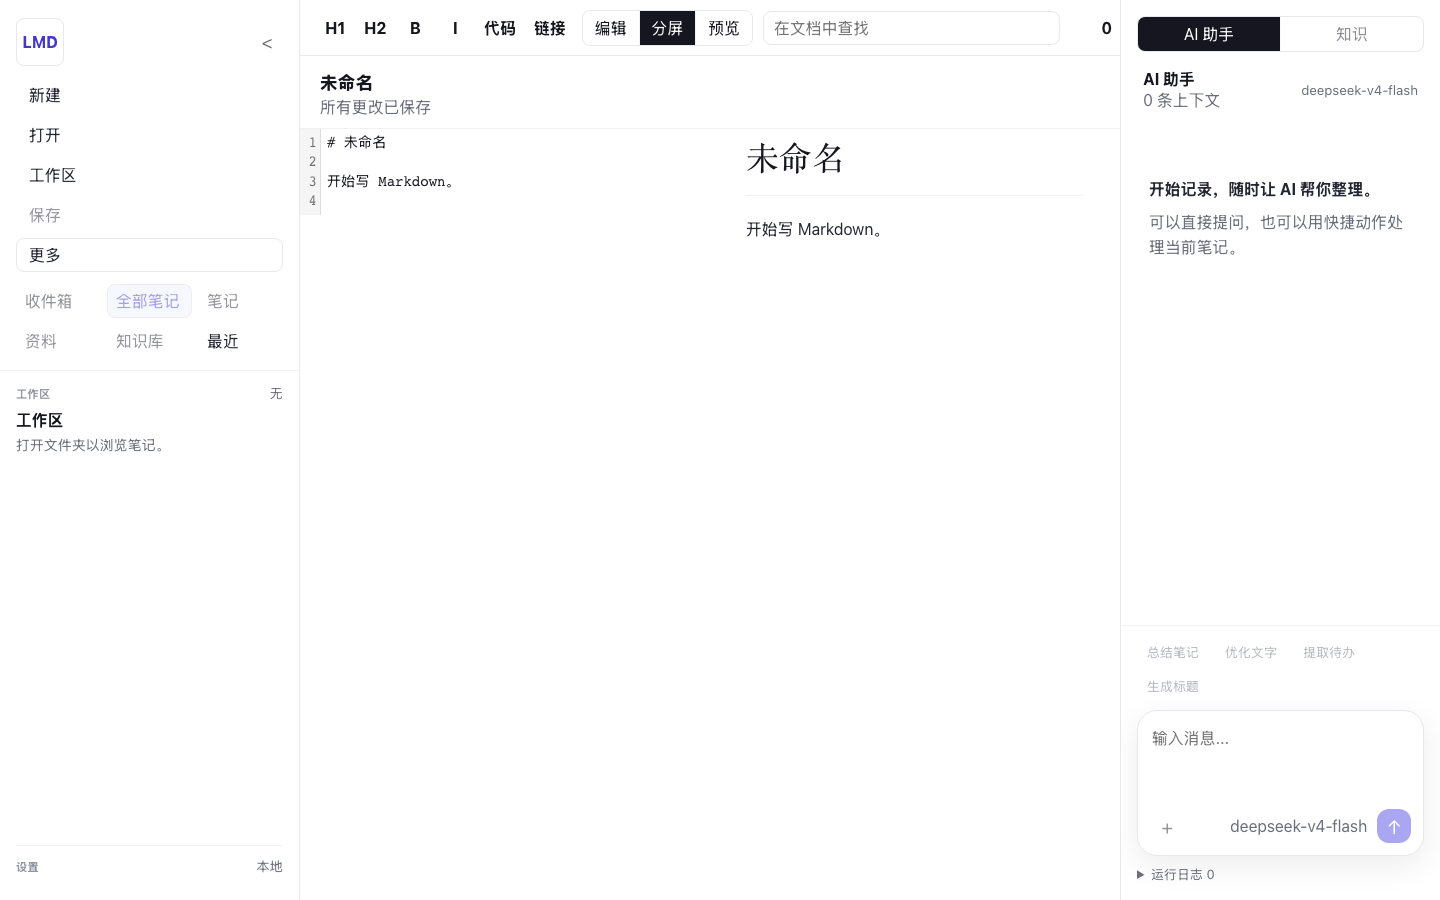
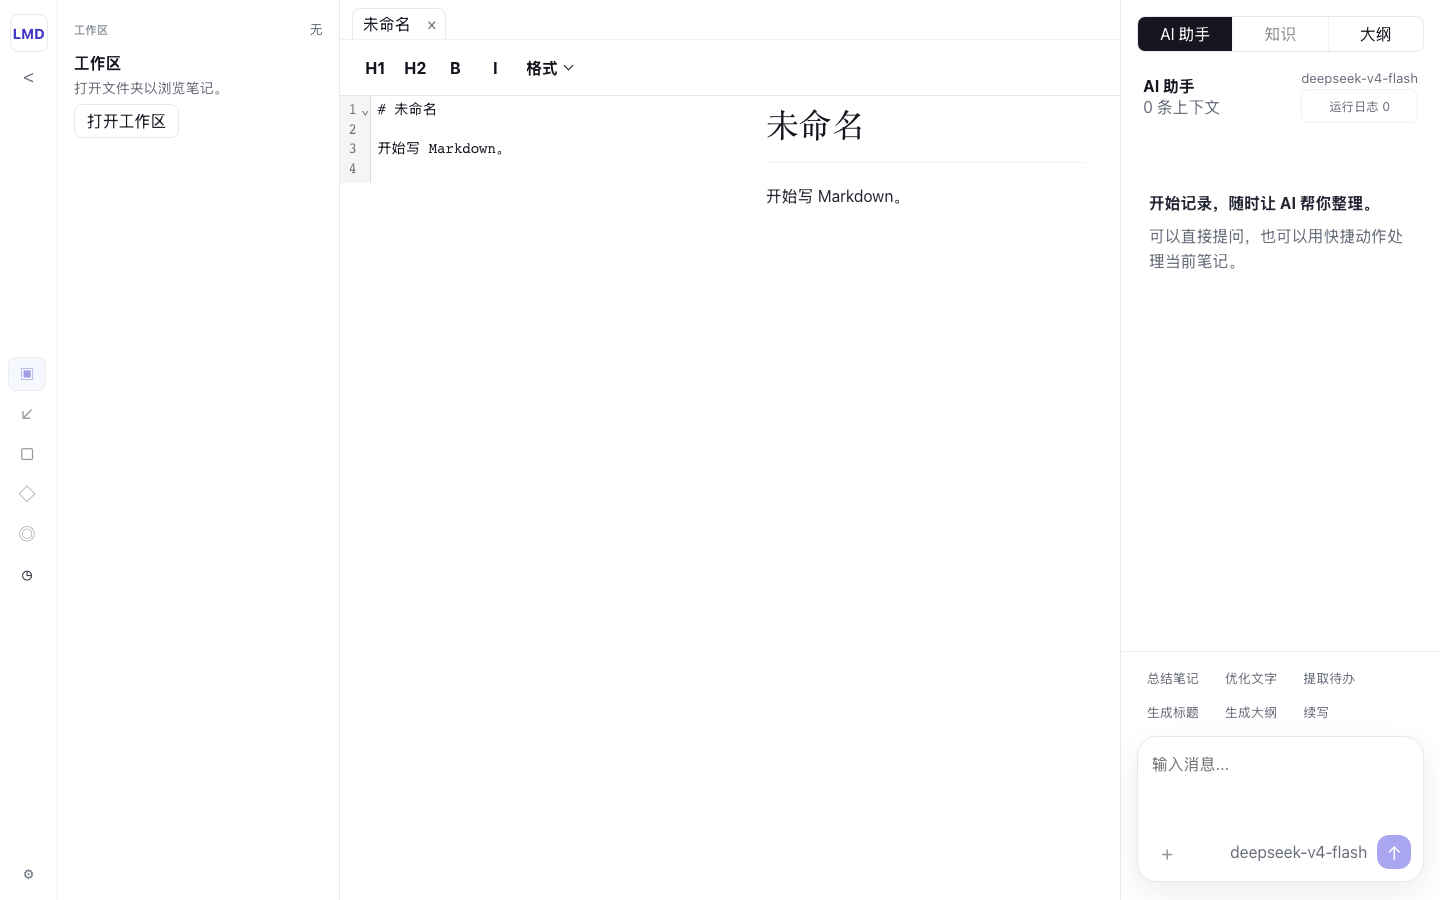
update

diff --git a/src/components/WorkspaceListPanel.tsx b/src/components/WorkspaceListPanel.tsx
@@ -21,6 +21,7 @@ type WorkspaceListPanelProps = {
   isLarge: boolean;
   visibleStartLine: number;
   visibleEndLine: number;
+  onCollapsePanel: () => void;
   onWorkspaceQueryChange: (query: string) => void;
   onWorkspaceSearch: () => void;
   onOpenWorkspace: () => void;
@@ -180,6 +181,7 @@ export function WorkspaceListPanel({
   isLarge,
   visibleStartLine,
   visibleEndLine,
+  onCollapsePanel,
   onWorkspaceQueryChange,
   onWorkspaceSearch,
   onOpenWorkspace,
@@ -330,13 +332,24 @@ export function WorkspaceListPanel({
       <div className="workspace-panel">
         <div className="workspace-header resource-tree-header">
           <span className="label">{sectionLabel}</span>
-          <small>
-            {librarySection === "recent"
-              ? `${recentFiles.length.toLocaleString()} 个文件`
-              : workspace
-                ? `${workspaceFiles.length.toLocaleString()} 个文件`
-                : "无"}
-          </small>
+          <div className="resource-tree-header-actions">
+            <small>
+              {librarySection === "recent"
+                ? `${recentFiles.length.toLocaleString()} 个文件`
+                : workspace
+                  ? `${workspaceFiles.length.toLocaleString()} 个文件`
+                  : "无"}
+            </small>
+            <button
+              type="button"
+              className="panel-toggle workspace-panel-toggle"
+              onClick={onCollapsePanel}
+              aria-label="隐藏笔记栏"
+              title="隐藏笔记栏"
+            >
+              ◧
+            </button>
+          </div>
         </div>
 
         {librarySection === "recent" ? (

diff --git a/src/components/LibraryRail.tsx b/src/components/LibraryRail.tsx
@@ -3,9 +3,7 @@ import type { LibrarySection, Workspace } from "../types";
 type LibraryRailProps = {
   busy: boolean;
   workspace: Workspace | null;
-  leftPanelOpen: boolean;
   activeSection: LibrarySection;
-  onToggleLeftPanel: () => void;
   onSectionChange: (section: LibrarySection) => void;
   onOpenSettings: () => void;
 };
@@ -22,9 +20,7 @@ const libraryItems: Array<{ id: LibrarySection; label: string; icon: string; req
 export function LibraryRail({
   busy,
   workspace,
-  leftPanelOpen,
   activeSection,
-  onToggleLeftPanel,
   onSectionChange,
   onOpenSettings,
 }: LibraryRailProps) {
@@ -32,15 +28,6 @@ export function LibraryRail({
     <aside className="library-rail" aria-label="资料库">
       <div className="app-brand">
         <div className="app-mark">LMD</div>
-        <button
-          type="button"
-          className="panel-toggle"
-          onClick={onToggleLeftPanel}
-          aria-label={leftPanelOpen ? "隐藏笔记栏" : "显示笔记栏"}
-          title={leftPanelOpen ? "隐藏笔记栏" : "显示笔记栏"}
-        >
-          {leftPanelOpen ? "<" : ">"}
-        </button>
       </div>
 
       <nav className="library-nav" aria-label="资料库分区">

diff --git a/src/styles.css b/src/styles.css
@@ -115,16 +115,20 @@ button:disabled {
 
 .floating-panel-toggle {
   position: fixed;
-  left: 12px;
-  top: 12px;
+  left: 0;
+  top: 50%;
   z-index: 6;
   display: none;
-  width: 34px;
+  width: 28px;
+  height: 56px;
   padding: 0;
-  border-color: rgba(204, 120, 92, 0.28);
+  border-color: var(--line);
+  border-left: 0;
+  border-radius: 0 10px 10px 0;
   background: var(--panel);
-  color: var(--accent-strong);
+  color: var(--muted);
   box-shadow: var(--shadow);
+  transform: translateY(-50%);
 }
 
 .left-closed .floating-panel-toggle {
@@ -189,6 +193,12 @@ button:disabled {
 
 .panel-toggle:hover:not(:disabled) {
   color: var(--accent-strong);
+}
+
+.workspace-panel-toggle {
+  border-color: var(--line);
+  background: var(--panel-muted);
+  font-size: 1rem;
 }
 
 .library-nav,
@@ -307,6 +317,12 @@ button:disabled {
 
 .resource-tree-header {
   min-height: 30px;
+}
+
+.resource-tree-header-actions {
+  display: flex;
+  align-items: center;
+  gap: 8px;
 }
 
 .workspace-header {

diff --git a/src/App.tsx b/src/App.tsx
@@ -3718,9 +3718,7 @@ export default function App() {
         <LibraryRail
           busy={busy}
           workspace={workspace}
-          leftPanelOpen={leftPanelOpen}
           activeSection={librarySection}
-          onToggleLeftPanel={() => setLeftPanelOpen((open) => !open)}
           onSectionChange={(section) => {
             setLibrarySection(section);
             setWorkspaceSearchActive(false);
@@ -3742,6 +3740,7 @@ export default function App() {
           isLarge={isLarge}
           visibleStartLine={visibleStartLine}
           visibleEndLine={visibleEndLine}
+          onCollapsePanel={() => setLeftPanelOpen(false)}
           onWorkspaceQueryChange={(query) => {
             setWorkspaceQuery(query);
             setWorkspaceSearchActive(false);

diff --git a/src-tauri/src/lib.rs b/src-tauri/src/lib.rs
@@ -76,6 +76,19 @@ fn checked_app_menu_item(
     )
 }
 
+#[cfg(target_os = "macos")]
+fn lmd_about_metadata(app: &tauri::AppHandle) -> tauri::Result<tauri::menu::AboutMetadata<'static>> {
+    let package_info = app.package_info();
+    Ok(tauri::menu::AboutMetadata {
+        name: Some(package_info.name.clone()),
+        version: Some(package_info.version.to_string()),
+        short_version: Some(package_info.version.to_string()),
+        copyright: app.config().bundle.copyright.clone(),
+        icon: Some(tauri::image::Image::from_bytes(APP_ICON_PNG)?),
+        ..Default::default()
+    })
+}
+
 fn build_app_menu(app: &tauri::AppHandle) -> tauri::Result<Menu<tauri::Wry>> {
     let menu = Menu::default(app)?;
     let knowledge_menu = Submenu::with_items(
@@ -193,6 +206,16 @@ fn build_app_menu(app: &tauri::AppHandle) -> tauri::Result<Menu<tauri::Wry>> {
     menu.insert(&ai_menu, 6)?;
     for item in menu.items()? {
         if let MenuItemKind::Submenu(submenu) = item {
+            #[cfg(target_os = "macos")]
+            if submenu.text()? == app.package_info().name {
+                let _ = submenu.remove_at(0)?;
+                submenu.insert(
+                    &PredefinedMenuItem::about(app, None, Some(lmd_about_metadata(app)?))?,
+                    0,
+                )?;
+                continue;
+            }
+
             if submenu.text()? == "File" {
                 submenu.prepend_items(&[
                     &app_menu_item(app, "new-markdown", "新建 Markdown", Some("CmdOrCtrl+N"))?,

diff --git a/README.md b/README.md
@@ -72,7 +72,7 @@ The checked state in the `View` menu is synchronized from the actual app state.
 
 ### Workspace and Knowledge
 
-Open a folder as a workspace, then use `More -> 初始化知识库` in the left rail. LMD creates:
+Open a folder as a workspace, then use `Knowledge -> 初始化知识库` from the macOS menu or the command palette. LMD creates:
 
 ```text
 notes/
@@ -288,7 +288,7 @@ More detail:
 - DOCX export requires `pandoc`.
 - Release builds are not signed or notarized yet.
 - Native Tauri WebDriver coverage would need Linux or Windows CI.
-- The current screenshot may be refreshed as the native macOS menu-first UI continues to evolve.
+- The UI is evolving quickly; screenshots should be refreshed when menu, workspace, or assistant layouts change.
 
 ## Status
 
@@ -297,7 +297,7 @@ LMD is usable, testable, and buildable, but still early.
 High-priority remaining work:
 
 - code signing and notarization
-- screenshot and release artifact refresh for public launch
+- release artifact refresh for public launch
 - optional native Tauri WebDriver coverage on supported CI platforms
 - further export layout improvements
 - deeper knowledge graph and semantic search features
